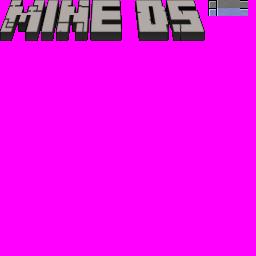
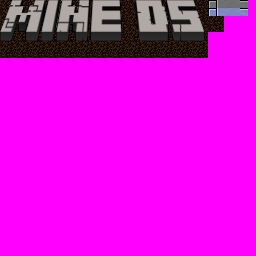
Adjusted UI and added dirt background

diff --git a/trunk/MineDS/source/titlescreen.cpp b/trunk/MineDS/source/titlescreen.cpp
@@ -14,17 +14,53 @@ int musicIsOn = 0;
 void settings(); //forward statements
 int titlescreen();
 
+void drawBackground() //Draws dirt background and MineDS Logo
+{
+        
+        int i,j; // They are famous variables :P
+        int k=90;
+        int l=122;
+        for (i=0;i<=24;i=i+2)
+        {
+		for (j=0;j<=31;j++)
+                {
+                    setSubBgTile(j,i,k);//Draws dirt Background
+                    if (k == 90)
+                    {
+                        k++;
+                    }
+                    else if (k!=90)
+                    {
+                        k=90;
+                    }
+                }
+        }
+        for (i=-1;i<=24;i=i+2)
+        {
+		for (j=0;j<=31;j++)
+                {
+                    setSubBgTile(j,i,l);
+                    if (l == 122)
+                    {
+                       l++;
+                    }
+                    else if (l != 122)
+                    {
+                       l=122;
+                    }
+                }
+        }
+        for (i=0;i<=25;i++)
+		for (j=0;j<=6;j++)
+			setSubBgTile(i+2,j,i+(j*32)); //Draw the MineDS Logo!
+}
+
 void multiplayerScreen()
 {
-        int i,j;
 	uint oldKeys;
 	touchPosition touch;
 	lcdMainOnTop();
-	for (i=0;i<=32;i++)
-		for (j=0;j<=32;j++) setSubBgTile(i,j,0); //Clears the screen by placing black tiles repeatedly  (Is there a command for this?)
-	for (i=0;i<=25;i++)
-		for (j=0;j<=6;j++)
-			setSubBgTile(i+2,j,i+(j*32)); //Draw the MineDS Logo!
+        drawBackground();
 	//Draw Buttons
 	drawButton(9,9,12);
 	drawButton(9,14,12);
@@ -55,8 +91,7 @@ void multiplayerScreen()
 			if (touch.px > 72 && touch.px < 176 && touch.py > 72 && touch.py < 96)
 			{
                                 drawButtonColored(9,9,12);
-				for (i=0;i<=32;i++)
-					for (j=7;j<=32;j++) setSubBgTile(i,j,0);
+                                drawBackground();
 				stopMusic();
                                 musicIsOn=false;
 				multiplayerGame(true);
@@ -65,8 +100,7 @@ void multiplayerScreen()
 			else drawButton(9,9,12);
 			if (touch.px > 72 && touch.px < 176 && touch.py > 112 && touch.py < 136)
 			{	
-				for (i=0;i<=32;i++)
-					for (j=7;j<=32;j++) setSubBgTile(i,j,0);
+                                drawBackground();
 				stopMusic();
                                 musicIsOn=false;
 				multiplayerGame(false);
@@ -86,16 +120,10 @@ void multiplayerScreen()
 }
 void credits()
 {
-        
-        int i,j; //Defining them for later
         uint oldKeys;
 	touchPosition touch;
 	lcdMainOnTop();
-	for (i=0;i<=32;i++)
-		for (j=0;j<=32;j++) setSubBgTile(i,j,0); //Clears screen
-        for (i=0;i<=25;i++)
-		for (j=0;j<=6;j++)
-			setSubBgTile(i+2,j,i+(j*32)); //Draws MineDS Logo!
+        drawBackground();
 	drawButton(9,9,12);
 	drawButton(9,14,12);
         drawButton(7,19,16);
@@ -131,25 +159,20 @@ void credits()
 }
 void controls()
 {
-        int i,j; //Defining them for later
         uint oldKeys;
 	touchPosition touch;
 	lcdMainOnTop();
-	for (i=0;i<=32;i++)
-		for (j=0;j<=32;j++) setSubBgTile(i,j,0); //Clears screen
-	for (i=0;i<=25;i++)
-		for (j=0;j<=6;j++)
-			setSubBgTile(i+2,j,i+(j*32)); //Draws MineDS Logo!
+        drawBackground();
 	//Draw Buttons
 	if (LRC)
 	{
-		drawButtonColored(8,9,12);
-		drawButton(8,14,12);
+		drawButtonColored(9,9,11);
+		drawButton(8,14,13);
 	}
 	else
 	{
-		drawButton(8,9,12);
-		drawButtonColored(8,14,12);		
+		drawButton(9,9,11);
+		drawButtonColored(8,14,13);		
 	}
         drawButton(25,19,4); //Back button
 	consoleClear(); //Removes All text from the screen
@@ -174,17 +197,17 @@ void controls()
 			if (touch.px > 72 && touch.px < 176 && touch.py > 72 && touch.py < 96)
 			{
                                 LRC = true;
-				drawButtonColored(8,9,12);
-				drawButton(8,14,12);	
+				drawButtonColored(9,9,11);
+				drawButton(8,14,13);	
 			}
-			else drawButton(8,9,12);
+			else drawButton(9,9,11);
 			if (touch.px > 72 && touch.px < 176 && touch.py > 112 && touch.py < 136)
 			{	
                                 LRC = false;
-				drawButton(8,9,12);
-				drawButtonColored(8,14,12);
+				drawButton(9,9,11);
+				drawButtonColored(8,14,13);
 			}
-			else drawButton(8,14,12);
+			else drawButton(8,14,13);
                         if (touch.px > 200 && touch.px < 240 && touch.py > 152 && touch.py < 176)
                         {
                           chosen = true;	//Will return to previous function when chosen is true.
@@ -199,12 +222,10 @@ void controls()
 }
 void settings_redraw()
 {
-	int i,j;
-	for (i=0;i<=32;i++)
-		for (j=7;j<=32;j++) setSubBgTile(i,j,0); //Clears the screen execpt for MineDS Logo!
+        drawBackground();
 	//Draw Buttons
-	drawButton(8,9,12);
-	drawButton(8,14,12);
+	drawButton(10,9,10);
+	drawButton(10,14,10);
         drawButton(25,19,4); //Back button
 	consoleClear(); //Removes All text from the screen
 	iprintf("\x1b[10;12HControls");
@@ -213,18 +234,13 @@ void settings_redraw()
 }
 void settings()
 {
-        int i,j; //I might as well define them for later
         uint oldKeys;
 	touchPosition touch;
 	lcdMainOnTop();
-	for (i=0;i<=32;i++)
-		for (j=0;j<=32;j++) setSubBgTile(i,j,0); //Clears the screen
-	for (i=0;i<=25;i++)
-		for (j=0;j<=6;j++)
-			setSubBgTile(i+2,j,i+(j*32)); //Draw the MineDS Logo!
+        drawBackground();
 	//Draw Buttons
-	drawButton(8,9,12);
-	drawButton(8,14,12);
+	drawButton(10,9,10);
+	drawButton(10,14,10);
         drawButton(25,19,4); //Back button
 	consoleClear(); //Removes All text from the screen
 	iprintf("\x1b[10;12HControls");
@@ -241,9 +257,9 @@ void settings()
 		{
 			touchRead(&touch);
 			if (touch.px > 72 && touch.px < 176 && touch.py > 72 && touch.py < 96)
-                                drawButtonColored(8,9,12);
+                                drawButtonColored(10,9,10);
 			else if (touch.px > 72 && touch.px < 176 && touch.py > 112 && touch.py < 136)
-                                drawButtonColored(8,14,12);
+                                drawButtonColored(10,14,10);
                         else if (touch.px > 200 && touch.px < 240 && touch.py > 152 && touch.py < 176)
                                 drawButtonColored(25,19,4);
 		}
@@ -254,13 +270,13 @@ void settings()
                                 controls();
 				settings_redraw();
 			}
-			else drawButton(8,9,12);
+			else drawButton(10,9,10);
 			if (touch.px > 72 && touch.px < 176 && touch.py > 112 && touch.py < 136)
 			{
                                 credits();
 				settings_redraw();
 			}
-			else drawButton(8,14,12);
+			else drawButton(10,14,10);
                         if (touch.px > 200 && touch.px < 240 && touch.py > 152 && touch.py < 176)
                         {
                                 chosen = true;
@@ -275,8 +291,7 @@ void settings()
 void titlescreen_redraw()
 {
 	int i,j;
- 	for (i=0;i<=32;i++)
-		for (j=7;j<=32;j++) setSubBgTile(i,j,0); //Clears the screen execpt for MineDS Logo
+        drawBackground();
 	//Lets start the buttons on line 8!
 	drawButton(8,9,14);
 	drawButton(8,14,14);
@@ -298,12 +313,7 @@ int titlescreen()
 	uint oldKeys;
 	touchPosition touch;
 	lcdMainOnTop();
-	int i,j; // They are famous variables :P
-        for (i=0;i<=32;i++)
-		for (j=0;j<=32;j++) setSubBgTile(i,j,0); //Clears the screen
-	for (i=0;i<=25;i++)
-		for (j=0;j<=6;j++)
-			setSubBgTile(i+2,j,i+(j*32)); // Show the "MineDS Logo!"
+        drawBackground();
 	//Lets start the buttons on line 8!
 	drawButton(8,9,14);
 	drawButton(8,14,14);
@@ -336,9 +346,8 @@ int titlescreen()
 		{
 			if (touch.px > 64 && touch.px < 184 && touch.py > 72 && touch.py < 96)
 			{
-				//drawButtonColored(8,9,14);
-				for (i=0;i<=32;i++)
-					for (j=7;j<=32;j++) setSubBgTile(i,j,0);
+				drawButtonColored(8,9,14);
+                                drawBackground();
 				consoleClear();
 				stopMusic();
                                 musicIsOn=0;
